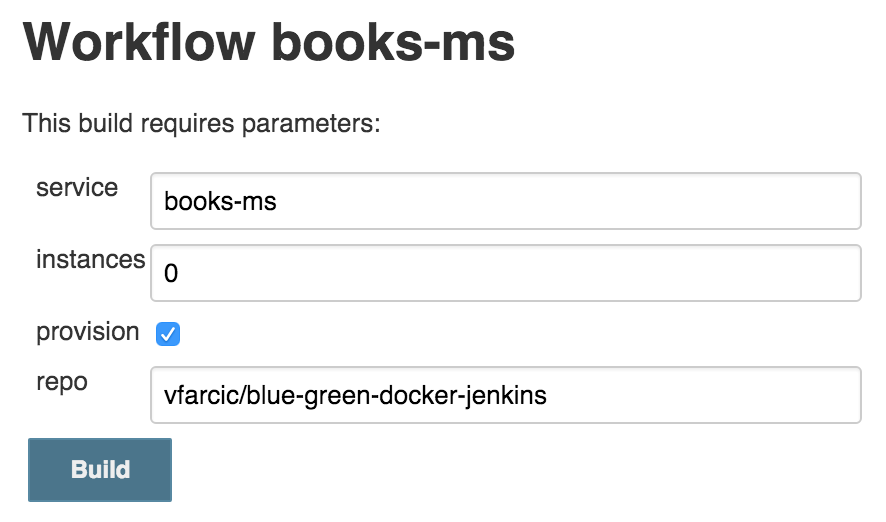
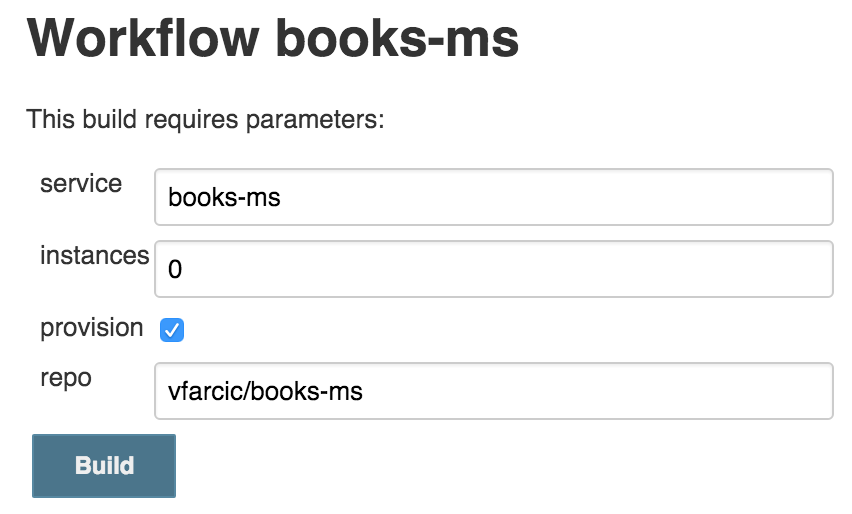
Finished the first draft

diff --git a/README.md b/README.md
@@ -1,11 +1,24 @@
 Blue-Green Deployment Workflow To Docker Swarm with Jenkins
 ===========================================================
 
-The idea behind this article is to explore ways to deploy releases to [Docker Swarm](https://docs.docker.com/swarm/) without downtime. We'll use *blue-green* process. More info about the process and one possible implementation can be found in the [Blue-Green Deployment, Automation and Self-Healing Procedure](http://technologyconversations.com/2015/07/02/scaling-to-infinity-with-docker-swarm-docker-compose-and-consul-part-34-blue-green-deployment-automation-and-self-healing-procedure/) article. One of the downsides of the process we used in that article is Ansible itself. While it is probably the best tool for provisioning and orchestration, it had some downsides when we tried to use it as the tool to deploy containers especially if the process is complex. It lacked some constructs common in most programming languages. This time we'll try to implement the same process but using the [Jenkins Workflow Plugin] and a bit of Groovy scripts.
+The idea behind this article is to explore ways to deploy releases to [Docker Swarm](https://docs.docker.com/swarm/) without downtime. We'll use *blue-green* process. More info about the process and one possible implementation can be found in the [Blue-Green Deployment, Automation and Self-Healing Procedure](http://technologyconversations.com/2015/07/02/scaling-to-infinity-with-docker-swarm-docker-compose-and-consul-part-34-blue-green-deployment-automati!on-and-self-healing-procedure/) article. One of the downsides of the process we used in that article is Ansible itself. While it is probably the best tool for provisioning and orchestration, it had some downsides when we tried to use it as the tool to deploy containers especially if the process is complex. It lacked some constructs common in most programming languages. This time we'll try to implement the same process but using the [Jenkins Workflow Plugin](https://wiki.jenkins-ci.org/display/JENKINS/Workflow+Plugin) and a bit of Groovy scripts. The plugin was originally written by [CloudBees](https://www.cloudbees.com/) and is fully open sourced.
 
-TODO: Explain the BG process
+We'll use the Workflow to define a blue-green deployment process. In a nutshell, we should do the following.
 
-Let's see it in action first and then discuss how it was done.
+* Provision the Swarm cluster
+* Provision the proxy service
+* Pull the latest release
+* Deploy the latest release in parallel with the current one
+* Run pre-integration tests that will confirm that everything seems to be working correctly
+* Update the proxy service
+* Run post-integration tests that will confirm that everything seems to be working correctly through the proxy service
+* Stop the previous release
+
+On top of those steps, the process should be capable of rolling back in case something goes wrong. Additional feature we'll introduce is the request to scale the service (and maintain scaled number in subsequent deployments).
+
+Let's see the job in action first and then discuss how it was done later.
+
+
 
 Setting Up Docker Swarm Cluster and Jenkins
 -------------------------------------------
@@ -49,7 +62,7 @@ Let's start the build. Since the first run last a bit longer than consecutive ru
 
 ![Workflow job build screen](img/build.png)
 
-While the job is running, let's take a quick look at the [docker-compose.yml](https://github.com/vfarcic/blue-green-docker-jenkins/blob/master/docker-compose.yml) that we'll use to run tests and deploy the service.
+While the job is running, let's take a quick look at the [docker-compose.yml](https://github.com/vfarcic/books-ms/blob/master/docker-compose-jenkins.yml) that we'll use to run tests and deploy the service.
 
 ```yml
 app:
@@ -112,6 +125,8 @@ Steps:
 
 ```groovy
 node("cd") {
+    env.PYTHONUNBUFFERED = 1
+
     stage "> Provisioning"
     if (provision.toBoolean()) {
         sh "ansible-playbook /vagrant/ansible/swarm.yml \
@@ -120,7 +135,6 @@ node("cd") {
             -i /vagrant/ansible/hosts/prod --extra-vars \
             \"proxy_host=swarm-master\""
     }
-...
 ```
 
 We started by declaring that the steps will run inside the Jenkins node called or labeled *cd* (short for continuous deployment). For simplicity, in this case *cd* is one of the labels of the *swarm-master* node. In production, you should run as much as possible in dedicated servers and not in production. Next is the *stage* declaration that serves multiple purposes. It marks a group of steps, allows us to constrain concurrency and, if you choose to use [CloudBees Jenkins Enterprise Edition](https://www.cloudbees.com/products/cloudbees-jenkins-platform/enterprise-edition), provides visualization, ability to restart from selected stage and few other features. Below the stage, you'll notice that the commands are inside an `if` statement. The value of the *provision* variable comes from the checkbox that you've see in the *build* screen (more about those parameters later on). The "meat" of this snippet are two `sh` statement. It is one of the step types provided by the Workflow plugin and, as you might have guessed, it runs any shell command we specify. In this case, we're using it to run Ansible playbooks that will take care of provisioning. Please note that we did not install nginx when we set up the servers. This script will do that for us.
@@ -134,7 +148,6 @@ Steps:
 ```groovy
     stage "> Deployment"
     git url: "https://github.com/${repo}.git"
-    env.DOCKER_HOST = "tcp://${swarmMaster}:2375"
 ```
 
 Please note the usage of the `${repo}`. This is another case of us utilizing parameters that can be specified in the build screen. We're also declaring environment variable *DOCKER_HOST* that points to the *swarm-master* node. From this moment on, all Docker commands we'll run will be sent to Docker Swarm.
@@ -149,11 +162,16 @@ Steps:
 
 ```groovy
     env.DOCKER_HOST = "tcp://${swarmMaster}:2375"
-    sh "docker-compose pull app-${nextColor}"
-    sh "docker-compose --x-networking up -d db"
-    sh "docker-compose rm -f app-${nextColor}"
-    sh "docker-compose --x-networking scale app-${nextColor}=$instances"
-    sh "curl -X PUT -d $instances http://${swarmMaster}:8500/v1/kv/${service}/instances"
+    sh "docker-compose -f docker-compose-jenkins.yml \
+        pull app-${nextColor}"
+    sh "docker-compose -f docker-compose-jenkins.yml \
+        --x-networking up -d db"
+    sh "docker-compose -f docker-compose-jenkins.yml \
+        rm -f app-${nextColor}"
+    sh "docker-compose -f docker-compose-jenkins.yml \
+        --x-networking scale app-${nextColor}=$instances"
+    sh "curl -X PUT -d $instances \
+        http://${swarmMaster}:8500/v1/kv/${service}/instances"
 ```
 
 First we are setting the *DOCKER_HOST* variable to point to the Swarm Master. From now on, all Docker commands will be sent to that IP/port. Next we're pulling the application. That is followed with deployment of the database and and removal of the target we are about to deploy. Than we are running the service itself. Please note that we are utilizing the *instances* variable to scale the service. Finally, we are sending the number of instances to Consul so that same number is used the next time we run the deployment (unless we change it explicitelly in the Jenkins build screen).
@@ -163,17 +181,20 @@ Now that the service is deployed somewhere inside the Swarm cluster, we can move
 Steps:
 
 * Locate the newly deployed service
-* Run integration tests
+* Run pre-integration tests
+* Stop the new release if tests fail
 
 ```groovy
     stage "> Post-Deployment"
     def address = getAddress(swarmMaster, service, nextColor)
     try {
         env.DOCKER_HOST = ""
-        sh "docker-compose run --rm -e DOMAIN=http://$address integ"
+        sh "docker-compose -f docker-compose-jenkins.yml \
+            run --rm -e DOMAIN=http://$address integ"
     } catch (e) {
         env.DOCKER_HOST = "tcp://${swarmMaster}:2375"
-        sh "docker-compose stop app-${nextColor}"
+        sh "docker-compose -f docker-compose-jenkins.yml \
+            stop app-${nextColor}"
         error("Pre-integration tests failed")
     }
 ```
@@ -189,43 +210,66 @@ Steps:
 * Reload nginx
 
 ```groovy
-    sh "consul-template -consul ${swarmMaster}:8500 \
-        -template 'nginx-upstreams-${nextColor}.ctmpl:nginx-upstreams.conf' -once"
-    stash includes: 'nginx-*.conf', name: 'nginx'
-}
-node("lb") {
-    unstash 'nginx'
-    sh "sudo cp nginx-includes.conf /data/nginx/includes/${service}.conf"
-    sh "sudo cp nginx-upstreams.conf /data/nginx/upstreams/${service}.conf"
-    sh "docker kill -s HUP nginx"
-}
+    updateProxy(swarmMaster, service, nextColor);
 ```
 
 Changing the nginx configuration is easy with [Consul Template](https://github.com/hashicorp/consul-template). We need a template that, in this case, is stored in the service repository (*nginx-upstreams-blue.ctmpl* and *nginx-upstreams-green.ctmpl*) and run the command. The result is, in this case, the *nginx-upstreams.con* file generated from the template and data stored in Consul.
 
-Please note that everything we did by now was executed in the *cd* node so that there is minimal impact on production servers. Now came the moment to switch to the proxy server (*lb*). For that reason we had to *stash* (archive) the configuration files and, once switched to the *lb* node, unstash (unarchive) them. From there on, we simply copied the files to nginx directories and run the command that reloads it.
+Please note that everything we did by now was executed in the *cd* node so that there is minimal impact on production servers. Now came the moment to switch to the proxy server (*lb*). For details of the implementation, please take a look at the *updateProxy* function in the [service-flow.groovy](https://github.com/vfarcic/blue-green-docker-jenkins/blob/master/ansible/roles/jenkins/templates/service-flow.groovy) source code.
 
-With the first round of integration tests we verified that everything works correctly except the proxy itself. The goal was to test as much as possible without affecting our users. Even though it is not part of this article, before the container was built and pushed to the hub, I run all sorts of unit, functional and any other type of tests that can be performed without having the service deployed. Later on we run integration tests that confirmed that the service (after being deployed) is integrated with the database. Now is the time to do the final round of integration tests. We should verify that the changes in the proxy configuration
+With the first round of integration tests we verified that everything works correctly except the proxy itself. The goal was to test as much as possible without affecting our users. Even though it is not part of this article, before the container was built and pushed to the hub, I run all sorts of unit, functional and any other type of tests that can be performed without having the service deployed. Later on we run integration tests that confirmed that the service (after being deployed) is integrated with the database. Now is the time to do the final round of integration tests. We should verify that the changes in the proxy configuration were done correctly and the service is indeed accessible through the proxy.
+
+Steps:
+
+* Run post-integration tests
+* Revert proxy reconfiguration if tests failed
+* Stop the new release if tests fail
 
 ```groovy
-node("cd") {
     try {
         env.DOCKER_HOST = ""
-        sh "docker-compose run --rm -e DOMAIN=http://${proxy} integ"
+        sh "docker-compose -f docker-compose-jenkins.yml \
+            run --rm -e DOMAIN=http://${proxy} integ"
     } catch (e) {
         if (currentColor != "") {
             updateProxy(swarmMaster, service, currentColor)
         }
         env.DOCKER_HOST = "tcp://${swarmMaster}:2375"
-        sh "docker-compose stop app-${nextColor}"
+        sh "docker-compose -f docker-compose-jenkins.yml \
+            stop app-${nextColor}"
         error("Post-integration tests failed")
     }
-}
+    sh "curl -X PUT -d ${nextColor} http://${swarmMaster}:8500/v1/kv/${service}/color"
 ```
+
+This block is almost the same as the one we have for pre-integration tests. The major difference is that this time we are not testing the service directly through its IP and port but going through the proxy in the same way service consumers will be accessing it. If tests fail, not only that we need to stop the new release but we also have to revert changes to the nginx configuration. Finally, if everything passed successfully, we're updating Consul with the information about the color we just deployed.
+
+We're almost done. The service is deployed, tested (multiple times) and the proxy has been changed accordingly. The only thing left is a bit of a clean up.
+
+Steps:
+
+* Stop the old release (unless the first release was just deployed)
+
+```groovy
+    if (currentColor != "") {
+        env.DOCKER_HOST = "tcp://${swarmMaster}:2375"
+        sh "docker-compose -f docker-compose-jenkins.yml \
+            stop app-${currentColor}"
+    }
+```
+
+We're finished with the exploration of the Jenkins workflow script used to perform blue-green deployment to Docker Swarm. Hopefully, by this time the first run of the Jenkins build is finished. The main culprit for the slowness is the tests container with its virtual size over 2GB. While in this cases we used it only to run backend integration tests, in few other occasions I used it to run front-end tests running on FireFox and Chrome and full back-end test suite, it contains JDK, Scala, NodeJS, a lot of Bower and Scala libraries, and so on.
 
 ![Workflow console screen](img/console.png)
 
-TODO: Mention CloudBees Jenkins Platform Enterprise Edition
+If looking at this huge log is too demanding, experiment with the "Workflow Steps" link from the left-hand menu. It shows separate logs for each step in the script.
+
+Hopefully this article gave you an overview of a possible steps we might need to run for the successful execution of blue-green deployment to Docker Swarm. More importantly, I hope you saw the advantages Jenkins Workflow plugin gives over more common ways to utilize jobs. The same process would probably require multiple jobs that would be much harder to maintain. Moreover, reading and writing Groovy scripts is much easier and faster than trying to fight the standard Jenkins jobs XML syntax. This script can and should be in the source code repository. Any change to this job can be done in the same way as we normally change the code.
+
+Please note that even though this script might look daunting at the beginning, with a small adaptation for your own organization, it could easily be reused to deploy many different services. As long as certain naming conventions are used (mainly in the way we name docker-compose.yml targets), you should be able to reuse it across most (if not all) container deployments.
+
+The major drawback of the way we did things is the creation of Jenkins jobs through Ansible. While it did its job, it feels more like a workaround than a long term solution. The problem is, in my opinion, current Jenkins OSS solutions to manage jobs are even less productive. I invite you to try [CloudBees Jenkins Platform Enterprise Edition](https://www.cloudbees.com/products/cloudbees-jenkins-platform/enterprise-edition) if you're looking for more power behind Jenkins Workflow and templating.
+
 
 
 
